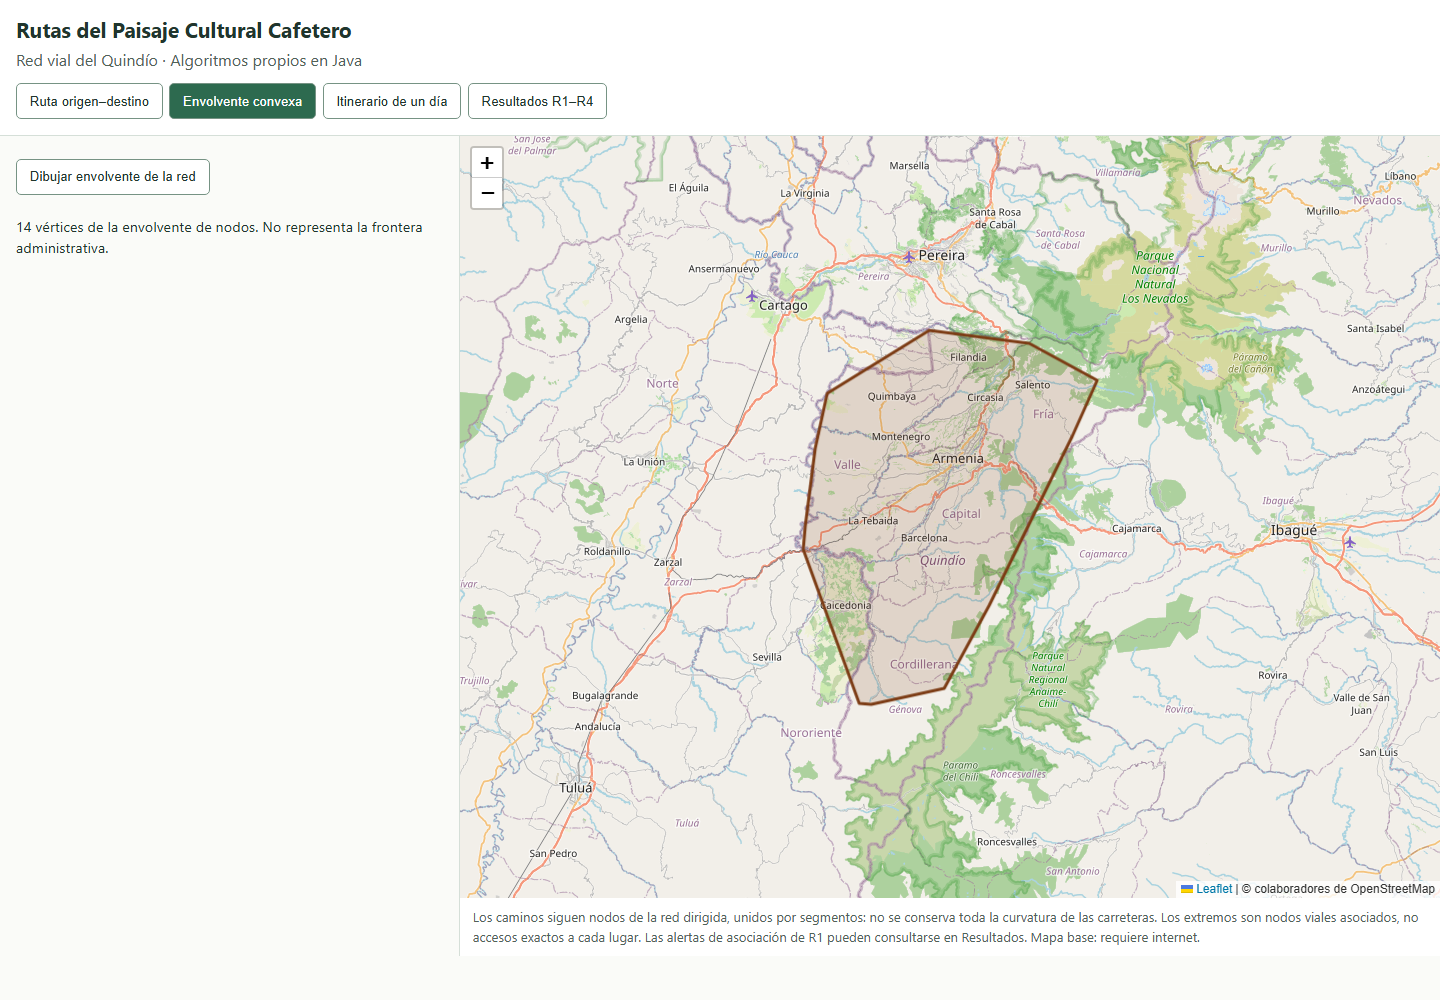
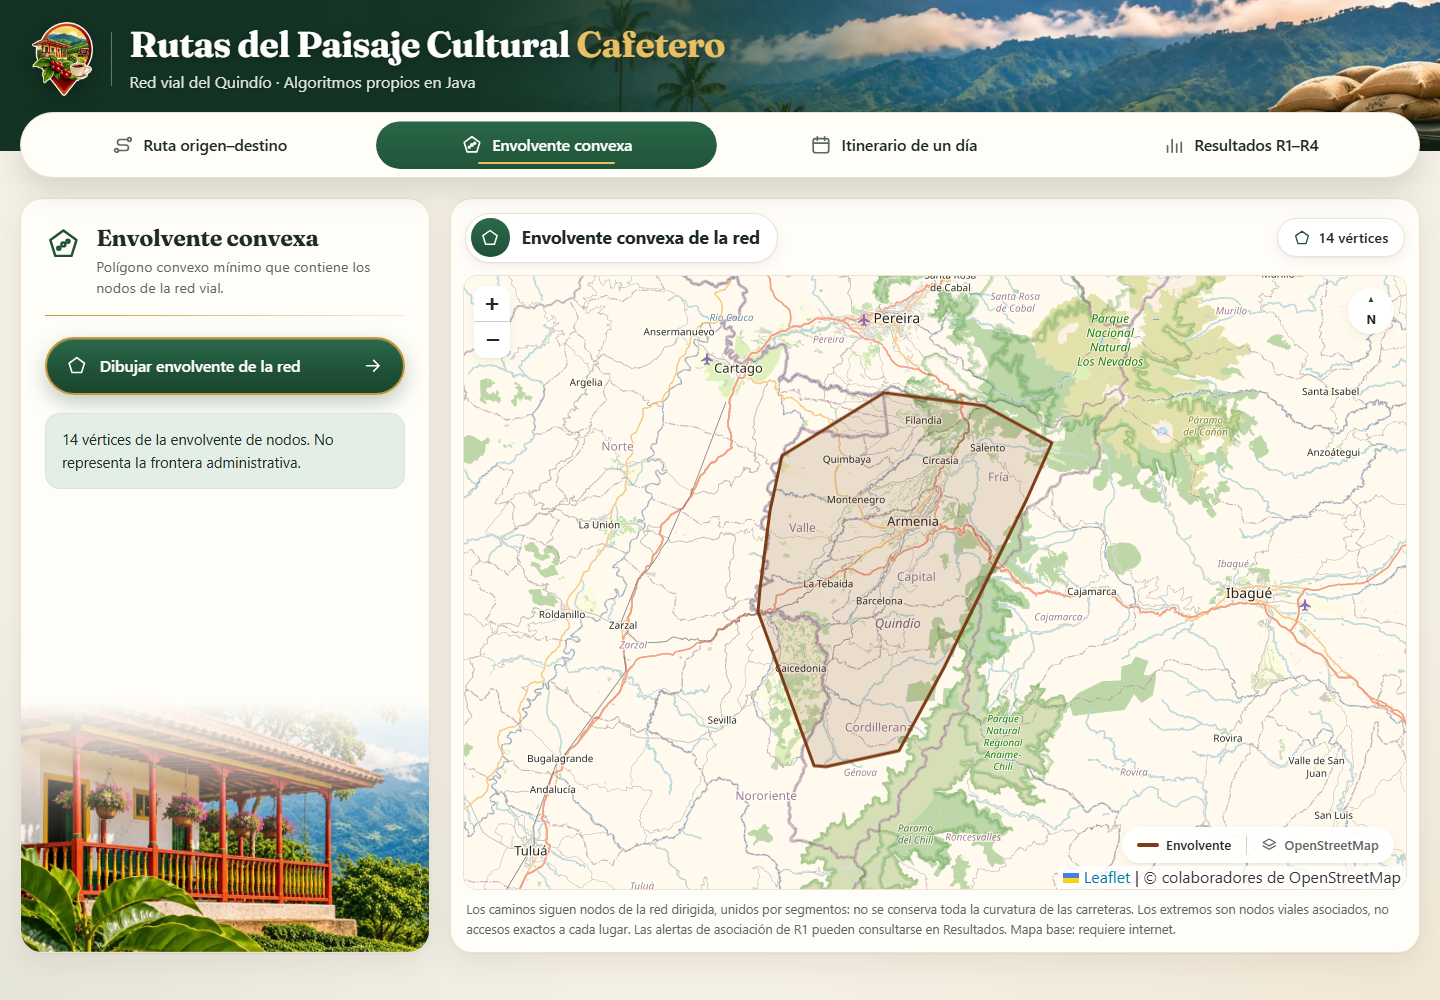
docs(r5): actualizar capturas y guia de la interfaz

diff --git a/README.md b/README.md
@@ -7,8 +7,20 @@ Planificación de rutas sobre la red vial real del Quindío (OpenStreetMap) con 
 y experimental de: Dijkstra (lineal y con cola de prioridad), envolvente convexa por divide y
 vencerás, y el viajante asimétrico (fuerza bruta, Held-Karp y una heurística voraz).
 
-**Integrantes:** _(completar)_ · **Docente:** _(completar)_ · **Fecha de descarga de la red:**
+**Integrantes:** Alex David Gutiérrez Jurado - Juan David Mejía Barbosa - Kevyn Ramírez González · **Docente:** Carlos Andres Florez · **Fecha de descarga de la red:**
 _(se registra en `data/processed/metadatos.json`)_
+
+## Accesos rápidos
+
+- **Usar la aplicación:** [inicio y datos necesarios](#aplicación-r5).
+- **Consultar el informe:** [documento técnico](docs/documento-tecnico/README.md).
+- **Ver las evidencias:** [resultados CSV](results/) y [figuras](results/figuras/).
+- **Reproducir experimentos:** [comandos en orden](#reproducir-los-resultados).
+- **Consultar contratos y pruebas esperadas:** [especificaciones](specs/README.md).
+
+Para una demostración con los datos incluidos, basta iniciar la aplicación desde la raíz
+con `./gradlew bootRun` (PowerShell: `.\gradlew.bat bootRun`) y abrir
+http://localhost:8080. No hace falta repetir experimentos ni instalar Python para ese uso.
 
 ## Tecnología
 
@@ -135,8 +147,8 @@ El comando `graficas` usa eje vertical logarítmico en R2 y genera además
 `results/r1/memoria_representacion.csv` (filas `grafo_java`). Es análisis derivado,
 sin nuevas mediciones ni cambios en los tiempos originales.
 
-Los algoritmos pendientes lanzan `UnsupportedOperationException`: sus pruebas deben seguir
-visibles y fallarán hasta implementarlos. Eso no equivale a un fallo de instalación.
+**Nota histórica (antes del cierre de R2–R4):** los algoritmos entonces pendientes lanzaban
+`UnsupportedOperationException`; sus pruebas se mantuvieron visibles hasta implementarlos.
 Para comprobar por separado la infraestructura Java, desde la raíz:
 
 ```powershell
@@ -207,14 +219,14 @@ La descarga no calcula velocidades, tiempos de viaje ni la componente fuerte.
 `asignar_pesos` ya está implementado y verificado: devuelve una copia en memoria con
 velocidades OSM o imputadas por tipo y tiempos estimados positivos; conserva el GraphML
 original. La política completa está en `specs/R1-modelo-red.md`, R1.2.
-`procesar` ya integra pesos, componente fuerte y exportación; los experimentos Python siguen
-pendientes. Las pruebas de descarga usan una
+`procesar` integra pesos, componente fuerte y exportación; el experimento R1.3 se describe
+en [Asociación de lugares](#asociación-de-lugares-r14-sin-mediciones). Las pruebas de descarga usan una
 respuesta simulada y lectura/escritura GraphML real, no los servidores públicos.
 
 La adquisición real y la reutilización local se comprobaron el 2026-11-10 (fecha local).
 La fecha exacta en UTC y los conteos están dentro del propio GraphML; la red cruda se
 mantiene fuera de Git. Los CSV de red ya se generaron con `procesar` y se comprobó su lectura
-desde Java; esto no implica que existan resultados de experimentos.
+desde Java en esa etapa. Los resultados experimentales posteriores están en `results/`.
 
 ### Procesamiento local (sin internet)
 
@@ -264,7 +276,7 @@ repeticiones cada una. Tablas, datos de máquina y figura disponibles; el docume
 el cociente tiempo/(V+E) y su discusión. Las cuatro copias reales se reutilizaron sin HTTP ni cambios de hash/fecha;
 el hash del GraphML departamental sigue coincidiendo con el original.
 
-Suite Python actual: **126/126**, con regresiones de catálogo, figura e integración R1.3. La última suite
+**Estado histórico al cerrar R1:** Python **126/126**, con regresiones de catálogo, figura e integración R1.3. La última suite
 Java completa ejecutada antes de los cambios del protocolo tuvo 45/68 aprobadas y 23
 fallidas por algoritmos R2–R4 pendientes; los tests filtrados de R1/medición/arquitectura
 son satisfactorios tras corregir el protocolo. No equivale a suite completa verde.
@@ -279,8 +291,8 @@ devuelve `no completada`, sin mediana ni resultado parcial utilizable.
 
 Las tareas y datos deben ser serializables y las funciones importables (sin lambdas).
 Usar desde módulos/CLI con guardia `if __name__ == "__main__"`, no definir las tareas en
-un comando interactivo `python -c`. No añade dependencias. Falta integrarlo en SciPy;
-R1.3 ya está integrado y su primera ejecución real está verificada.
+un comando interactivo `python -c`. No añade dependencias. La integración con SciPy y su
+verificación posterior se documentan en el cierre de R3; R1.3 también está integrado.
 
 ## Aplicación (R5)
 
@@ -312,7 +324,9 @@ abrir la aplicación. Si el puerto 8080 está ocupado, detener la instancia ante
 3. **Itinerario:** elegir partida y desplegar Elegir o cambiar atractivos para seleccionar
    entre 6 y 8. Se precargan los siete del itinerario final R4. Comparar muestra Held-Karp
    y vecino más cercano, visitas, desplazamientos, jornada y diferencia. Verde continuo:
-   exacto; rojo discontinuo: heurística. Los caminos pueden superponerse.
+    exacto; rojo discontinuo: heurística. Los caminos pueden superponerse.
+    El selector **Recorrido en el mapa** muestra Óptimo (por defecto), Vecino o Ambos.
+    Los números indican el orden de visita y **P**, la partida y el regreso.
    Una jornada superior a 11 horas muestra aviso, pero no elimina lugares automáticamente.
    Los retiros del ejemplo R4 están en Resultados (`r4/retiros.csv`).
 4. **Resultados:** elegir una tabla y pulsar Ver tabla; desplazar horizontalmente si es

diff --git a/docs/registro-ia.md b/docs/registro-ia.md
@@ -52,3 +52,5 @@ significativa. No se editan filas anteriores.
 | 2026-11-12 | OpenCode, OpenAI GPT-6.1 Sol (`openai/gpt-6.1-sol`) | No indicado en la sesión | R5 / aplicación y explicación de uso | Completar alcance aprobado y explicar funcionamiento/cambios para sustentación | Spec R5, `RutaService`, `ConsultaResultadosService`, controladores de itinerario/errores, página estática, pruebas Java de rutas/consultas/HTTP, `src/test/javascript/r5-browser.cjs`, README y specs/README, capítulo 6 con capturas y este registro; guía personal excluida actualizada | Spec ampliada antes de código; pruebas de servicio inicialmente no compilaban por constructor aún pendiente. Implementadas rutas en vivo con Dijkstra, validación y errores 400/404. Las primeras pruebas HTTP detectaron coordenadas ausentes en grafo sintético; se ajustó la fixture y se añadió regresión explícita para error de datos sin coordenadas. Suite completa forzada Java: 118/118, sin omitidas; Python 176/176; sintaxis JS validada con Node. Navegador de herramienta desconectado: se usó Edge headless local vía CDP, sin paquetes nuevos. Script sobre datos reales verifica cuatro funciones, imágenes, aviso >11 h, selección inválida, escape de error externo, respuesta tardía, ancho móvil y Leaflet ausente; capturas inspeccionadas y copiadas al capítulo 6. Comprobaciones de rutas dirigidas, mismo nodo, índices/coordenadas, caché concurrente, JSON/parámetros y archivos ausentes vía HTTP. No se modificaron algoritmos, catálogo, datos ni resultados R1–R4. README detalla uso sin Python con datos versionados; reproducción desde cero en otro equipo queda pendiente. Sin commit ni push. |
 | 2026-11-12 | OpenCode, OpenAI GPT-6.1 Sol (`openai/gpt-6.1-sol`) | No indicado en la sesión | R5 / publicación autorizada | Realizar commit y push para revisión | Implementación, pruebas, interfaz, capturas y documentación R5 descritas en la entrada anterior; este registro | Autorización expresa recibida; archivos y alcance inspeccionados. Evidencia vigente: Java 118/118, Python 176/176 y prueba Edge con datos reales aprobada. `git diff --check` sin errores y comprobación Git confirma algoritmos, datos y resultados R1–R4 intactos. Se prepara commit `feat(r5): completar aplicacion web con pruebas y documentacion` y push normal a origin/main; se comprobarán hash y sincronización. Guía personal y archivos temporales excluidos. Sigue pendiente reproducir desde cero en otro equipo. |
 | 2026-11-16 | OpenCode, OpenAI GPT-6.1 Sol (`openai/gpt-6.1-sol`) | No indicado en la sesión | R5 / mejora del itinerario de un día | Conservar el rediseño del compañero y añadir marcadores, selector de recorridos y tabla sin cortes; publicar con autorización expresa | `src/main/resources/static/app.js`, `estilos.css`, `index.html` y este registro | Revisados AGENTS, spec R5 y commits del rediseño. Se reutilizan estilos existentes: partida P, visitas numeradas por método, capas independientes, Óptimo por defecto y leyenda dinámica sin nuevas consultas al cambiar vista. Tabla ajustada solo en itinerario. Gradle test con ejecución forzada aprobado y sintaxis JS válida. Edge/CDP sobre bootRun en 8081 con ocho atractivos verificó P y 1–8, capas, leyendas, selector sin peticiones y cinco columnas sin scroll a 1440/1024/768/390 px. Sin cambios en Java, endpoints, Python, pruebas ni build. Diff sin errores; commit y push normal autorizados por el usuario. |
+| 2026-11-16 | OpenCode, OpenAI GPT-6.1 Sol (`openai/gpt-6.1-sol`) | Kevyn Ramírez González | Documentación transversal | Hacer mejoras mínimas y útiles sin alterar el proyecto ni ejecutar pruebas o mediciones; explicar cómo publicar el aporte | `README.md`, `docs/registro-ia.md` | Revisión documental del README y de las rutas del informe; accesos rápidos y aclaración de notas históricas sobre algoritmos, experimentos y SciPy. Revisión del diff y de espacios con Git. Sin cambios de código, contratos, datos ni resultados; sin ejecutar la aplicación, pruebas o mediciones por solicitud del integrante. Commit y push quedan a cargo del integrante. |
+| 2026-11-16 | OpenCode, OpenAI GPT-6.1 Sol (`openai/gpt-6.1-sol`) | Kevyn Ramírez González | R5 / actualización documental de capturas | Reemplazar capturas antiguas por la interfaz actual y hacer ajustes mínimos sin alterar la aplicación | `docs/documento-tecnico/capturas/{ruta,envolvente,itinerario,resultados}.png`, `docs/documento-tecnico/06-r5-aplicacion.md`, `README.md`, `docs/registro-ia.md` | Servidor ya activo en localhost:8080; `node src/test/javascript/r5-browser.cjs` completado correctamente con datos reales: cuatro funciones, aviso de 11 h, errores/XSS, respuesta tardía, móvil y CDN ausente. Cuatro PNG generados en build/r5 y revisados visualmente antes de copiarlos al capítulo; documentados selector Óptimo/Vecino/Ambos, marcadores y fecha de captura. Sin modificar código, pruebas, specs, datos ni resultados experimentales; sin ejecutar Gradle, suites Java/Python ni mediciones. Commit y push pendientes del integrante. |

diff --git a/docs/documento-tecnico/06-r5-aplicacion.md b/docs/documento-tecnico/06-r5-aplicacion.md
@@ -57,10 +57,14 @@ La interfaz solicita después `/api/ruta` para cada par consecutivo de ambos iti
 reutilizando pares coincidentes dentro de la comparación. Dijkstra obtiene los caminos
 viales; JavaScript solo agrupa sus coordenadas. Held-Karp se dibuja en verde continuo
 y vecino más cercano en rojo discontinuo; algunos tramos pueden superponerse.
+El selector **Recorrido en el mapa** permite ver **Óptimo**, **Vecino** o **Ambos**;
+por defecto muestra el óptimo. Cambiar esta vista no vuelve a consultar al servidor.
+Los marcadores numerados indican el orden de visita de cada método y **P** señala
+la partida y el regreso. La leyenda se ajusta al recorrido visible.
 Las tablas conservan los totales de la matriz R2 redondeada a tres decimales, mientras
 que la geometría proviene de Dijkstra con los pesos del grafo en memoria.
 
-![Comparación del itinerario y sus caminos](capturas/itinerario.png)
+![Itinerario óptimo con selector de recorridos y visitas numeradas](capturas/itinerario.png)
 
 Esta comparación no elimina lugares: si una jornada supera once horas, muestra una
 advertencia para ajustar la selección. La política de retiro de `ItinerarioService.planear`
@@ -98,7 +102,10 @@ La prueba reproducible `node src/test/javascript/r5-browser.cjs` usa Edge headle
 local y CDP sin paquetes adicionales. Con el servidor activo verificó las cuatro
 funciones sobre datos reales, figuras, aviso de once horas, selección inválida,
 texto externo no ejecutable, respuesta tardía, ancho móvil y Leaflet ausente.
-Las capturas de este capítulo provienen de esa ejecución y se revisaron visualmente.
+Las cuatro capturas de este capítulo se actualizaron el **2026-11-16** ejecutando
+ese mismo script sobre la interfaz actual a 1440 × 1000 píxeles y se revisaron
+visualmente. La captura del itinerario muestra la vista **Óptimo** predeterminada;
+las tablas completas se consultan desplazando el panel lateral.
 Node y Edge solo se necesitan para esta comprobación de desarrollo, no para usar la app.
 
 La ejecución local y el README están comprobados en el entorno del proyecto. La
